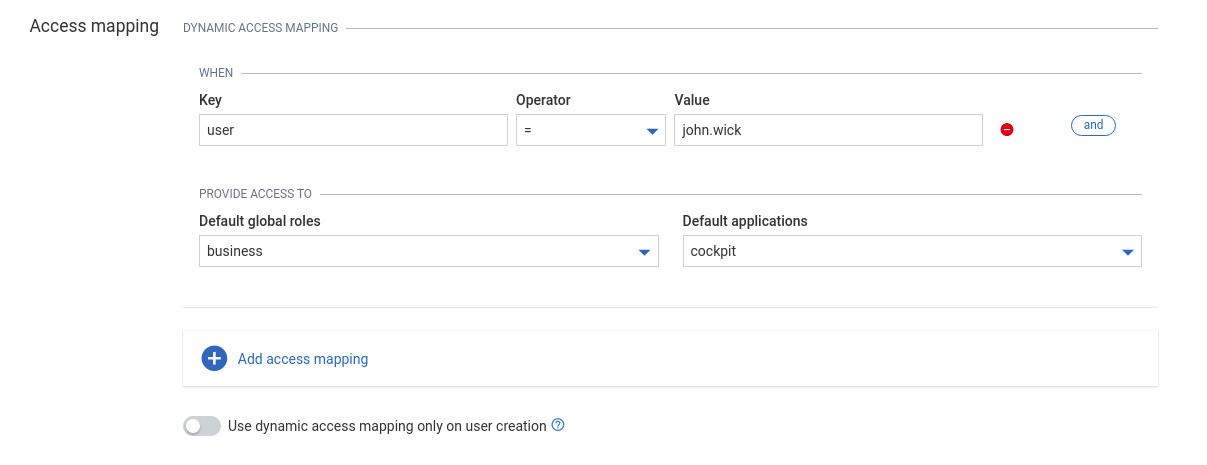
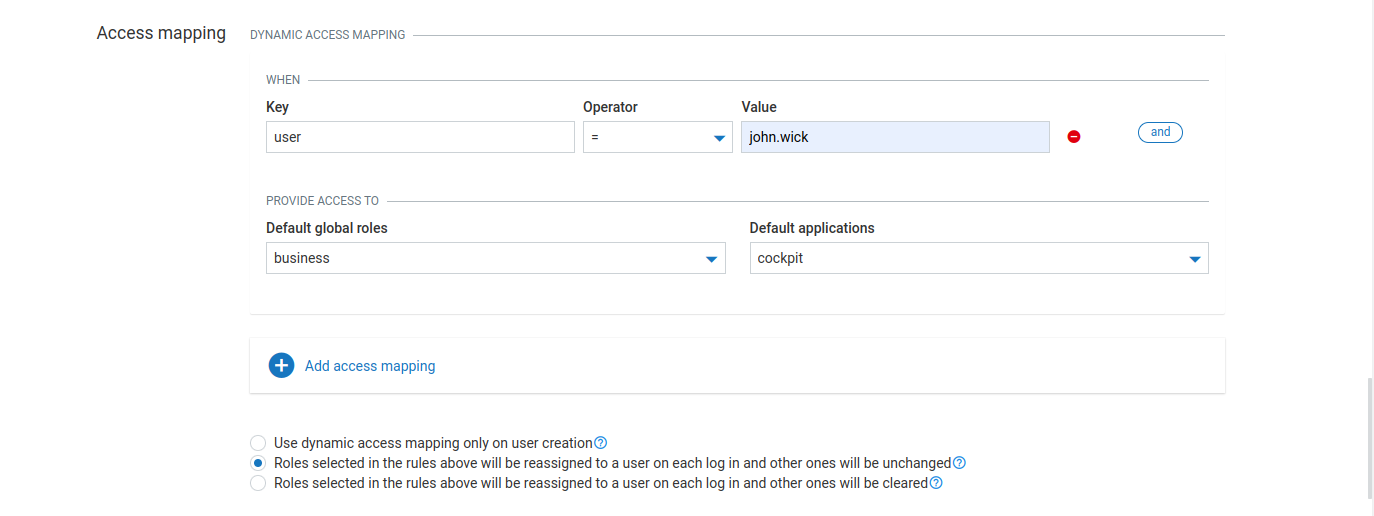
[MTM-47904] New SSO access mapping configuration enabled (#634)
* [MTM-47904] New SSO access mapping configuration enabled

* [MTM-47904] Mention default selected option

* Update content/users-guide/administration-bundle/changing-settings.md

* Update content/users-guide/administration-bundle/changing-settings.md

* Update content/users-guide/administration-bundle/changing-settings.md

* Update content/users-guide/administration-bundle/changing-settings.md

* Update content/users-guide/administration-bundle/changing-settings.md

diff --git a/content/users-guide/administration-bundle/changing-settings.md b/content/users-guide/administration-bundle/changing-settings.md
@@ -328,13 +328,24 @@ In this case the following claim will match the condition:
  }
  ```
 
-As you can see, there is an option to verify if a value exists in a list via the "in" operator. Values can also be embedded in other objects. In this case a dot in the key implies looking into an embedded object.
+There is an option to verify that a value exists in a list via the "in" operator. Values can also be embedded in other objects. In this case a dot in the key implies looking into an embedded object.
 
-By default, dynamic access mapping assigns user roles, based on the access token, on every user login. This means, that it is not possible to change the user roles inside {{< product-c8y-iot >}} as these would be overridden on next user login. To change this behaviour, select the **Use dynamic access mapping only on user creation** checkbox at the bottom of the **Access mapping** section.
+By default, the configuration for dynamic access mapping is selected: **Roles selected in the rules above will be reassigned to a user on each log in and other ones will be cleared**.
+This means that dynamic access mapping assigns user roles, based on the access token, on every user login.
+It is not possible to change the user roles inside {{< product-c8y-iot >}} as they would be overwritten on the next user login.
+To change this behavior, select one of the following radio buttons at the bottom of the **Access mapping** section:
+
+* **Use dynamic access mapping only on user creation**
+
+  When selected, dynamic access mapping will be used only when a new user logs in to fill in the initial roles. When a user already exists in {{< product-c8y-iot >}}, the roles will not be overwritten nor updated.
+  
+* **Roles selected in the rules above will be reassigned to a user on each log in and other ones will be unchanged**
+
+  When selected, dynamic access mapping will be used on every login, but the roles not listed in the access mapping configuration will not be updated. Only the roles that are listed in the defined access mapping rules will be overwritten.
 
 ![Custom access mapping](/images/users-guide/Administration/sso-custom-access-mapping-2.png)
 
-When selected, dynamic access mapping will be used only when a new user logs in to fill in the initial roles. When a user already exists in {{< product-c8y-iot >}}, the roles will not be overridden nor updated. Selecting this option also enables admins to edit roles of SSO users in the user management. For details, refer to  [Administration > Managing permissions](/users-guide/administration/#attach-global) in the *User guide*.
+Selecting one of the two options mentioned above will also enable admins to edit roles of SSO users in the user management. For details, refer to [Administration > Managing permissions](/users-guide/administration/#attach-global) in the *User guide*.
 
 When a user logs in with an access token, the username can be derived from a JWT claim. The claim name can be configured in the **User ID configuration** window.
 The user ID can be set to any top-level field of the authorization token payload sent from the authorization server to the platform during the login process. We recommend you inspect the authorization token in the audit logs to make sure the correct field is used (see [Troubleshooting](#troubleshooting)).
